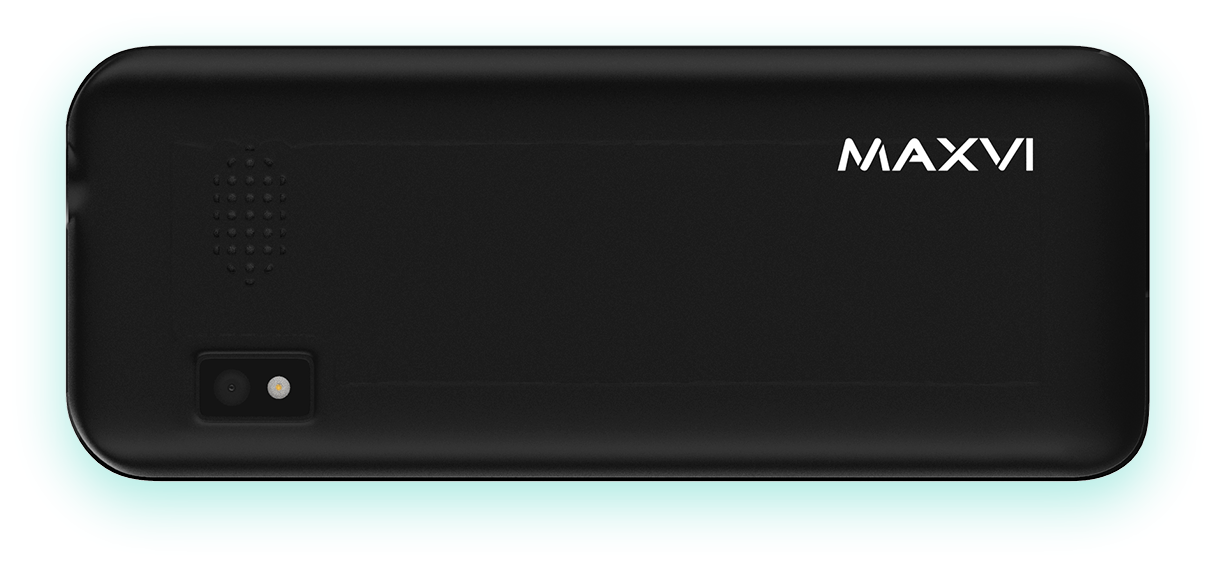
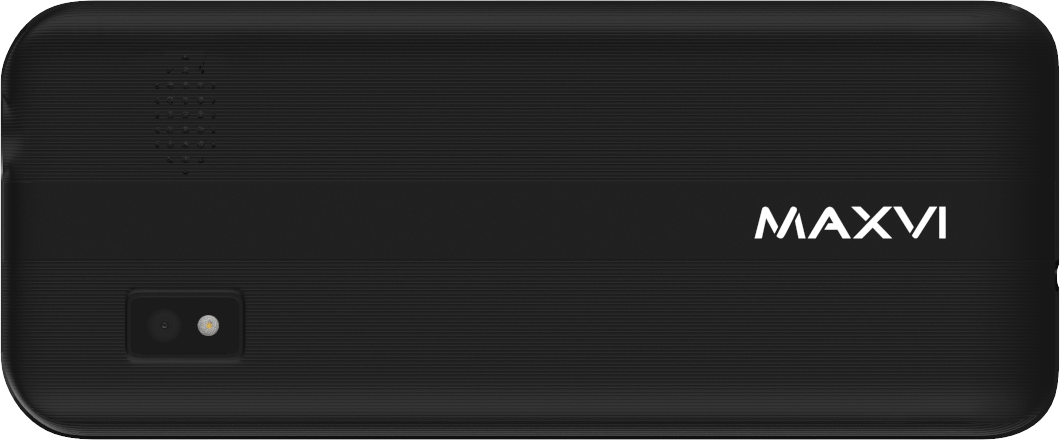
Maxvi update

diff --git a/k21/css/k21-style-responsive.css b/k21/css/k21-style-responsive.css
@@ -83,7 +83,7 @@
 
 	/* section battery */
 	.k21-battery {
-		height: 640px;
+		height: 675px;
 	}
 
 	.k21-battery .k21-title {
@@ -91,24 +91,24 @@
 	}
 
 	.k21-battery .k21-media-figure {
-		top: 140px;
-		width: 972px;
-		height: 453px;
+		top: 170px;
+		width: 954px;
+		height: 396px;
 	}
 
 	.k21-battery .k21-media-figure .k21-media {
-		width: 972px;
-		height: 453px;
+		width: 954px;
+		height: 396px;
 	}
 
 
 	.k21-battery-block {
-		height: 585px;
+		height: 620px;
 	}
 
 
 	.k21-battery-counter-block {
-		top: 180px;
+		top: 140px;
 	}
 
 	.k21-battery-counter-block .k21-battery-counter {
@@ -207,7 +207,7 @@
 
 	/* section battery */
 	.k21-battery {
-		height: 540px;
+		height: 500px;
 	}
 
 	.k21-battery .k21-title {
@@ -215,14 +215,18 @@
 	}
 
 	.k21-battery .k21-media-figure {
-		top: 115px;
-		width: 777px;
-		height: 362px;
+		top: 145px;
+		width: 720px;
+		height: 298px;
+	}
+
+	.k21-battery .k21-media-figure::before {
+		filter: blur(35px);
 	}
 
 	.k21-battery .k21-media-figure .k21-media {
-		width: 777px;
-		height: 362px;
+		width: 720px;
+		height: 298px;
 	}
 
 
@@ -233,7 +237,7 @@
 
 
 	.k21-battery-counter-block {
-		top: 150px;
+		top: 110px;
 		font-size: 24px;
 	}
 
@@ -414,14 +418,18 @@
 
 
 	.k21-battery .k21-media-figure {
-		top: 85px;
-		width: 388px;
-		height: 181px;
+		top: 100px;
+		width: 350px;
+		height: 145px;
+	}
+
+	.k21-battery .k21-media-figure::before {
+		filter: blur(20px);
 	}
 
 	.k21-battery .k21-media-figure .k21-media {
-		width: 388px;
-		height: 181px;
+		width: 350px;
+		height: 145px;
 	}
 
 
@@ -434,11 +442,13 @@
 
 
 	.k21-battery-counter-block {
-		top: 65px;
+		top: 50px;
+		font-size: 20px;
 	}
 
 	.k21-battery-counter-block .k21-battery-counter {
 		width: 110px;
+		margin-left: -0.5em;
 		font-size: 48px;
 	}
 	/* section battery end */

diff --git a/k21/css/k21-style.css b/k21/css/k21-style.css
@@ -188,17 +188,6 @@
 	height: 1285px;
 }
 
-/* .k21-presentation .k21-presentation-video {
-	position: absolute;
-    z-index: 0;
-    top: 50%;
-    left: 50%;
-    min-width: 100%;
-    min-height: 100%;
-    transform: translate(-50%, -50%);
-} */
-
-
 .k21-presentation .k21-title,
 .k21-presentation .k21-subtitle,
 .k21-presentation .k21-description {
@@ -329,11 +318,12 @@
 
 .k21-battery .k21-media-figure {
 	position: absolute;
-	top: 120px;
+	z-index: 1;
+	top: 170px;
 	left: 50%;
 	right: 50%;
-	width: 1215px;
-	height: 567px;
+	width: 1060px;
+	height: 440px;
 	margin: auto;
 }
 
@@ -345,9 +335,21 @@
 	transform: translate(-50%, 0);
 }
 
+.k21-battery .k21-media-figure::before {
+	position: absolute;
+	z-index: -1;
+	top: 15%;
+	left: 5%;
+	right: 5%;
+	bottom: 5%;
+	background: #1de9b6;
+	filter: blur(50px);
+	content: '';
+}
+
 .k21-battery .k21-media-figure .k21-media {
-	width: 1215px;
-	height: 567px;
+	width: 1060px;
+	height: 440px;
 }
 
 
@@ -366,7 +368,7 @@
 .k21-battery-counter-block {
 	position: absolute;
 	z-index: 1;
-	top: 210px;
+	top: 135px;
 	left: 15px;
 	right: 15px;
 	color: #1de9b6;
@@ -378,7 +380,7 @@
 .k21-battery-counter-block .k21-battery-counter {
 	display: inline-block;
 	width: 380px;
-	margin-left: .9em;
+	margin-left: -0.25em;
 	text-align: right;
 	font-size: 170px;
 	font-weight: 700;

diff --git a/k21/index.html b/k21/index.html
@@ -76,10 +76,6 @@
 		</section>
 
 		<section class="k21-battery" >
-			<!-- <video class="k21-battery-video" poster="images/section-battery/k21-battery-video-bg-poster-test.jpg" autoplay muted loop playsinline>
-				<source src="images/section-battery/k21-battery-video-bg-test.mp4" type="video/mp4">
-			</video> -->
-
 			<div class="container">
 				<div class="content-wrapper row d-flex">
 					<div class="k21-typography-container col-xs-12 col-sm-10 col-sm-offset-1">
@@ -90,7 +86,7 @@
 
 					<div class="k21-media-container col-xs-12 col-sm-10 col-sm-offset-1">
 						<figure class="k21-media-figure" data-aos="fade-up" data-aos-duration="800">
-							<img src="images/section-battery/k21-battery-phone-back.png" class="k21-media layer-1" alt="K21" width="1215" height="567" >
+							<img src="images/section-battery/k21-battery-phone-back.png" class="k21-media layer-1" alt="K21" width="1060" height="440" >
 
 							<div class="k21-battery-counter-block" data-aos="fade-left" data-aos-duration="500">
 								<span class="k21-battery-counter">1400</span> mAh
